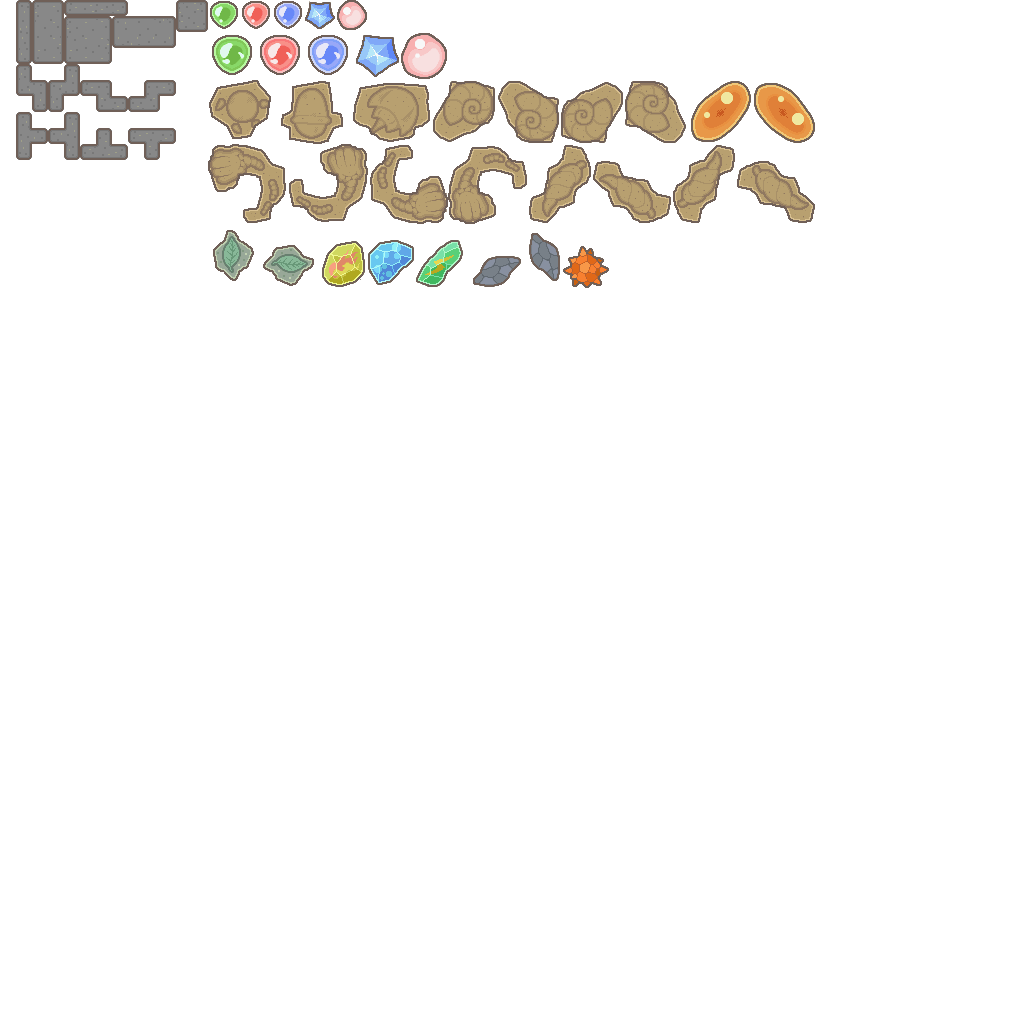
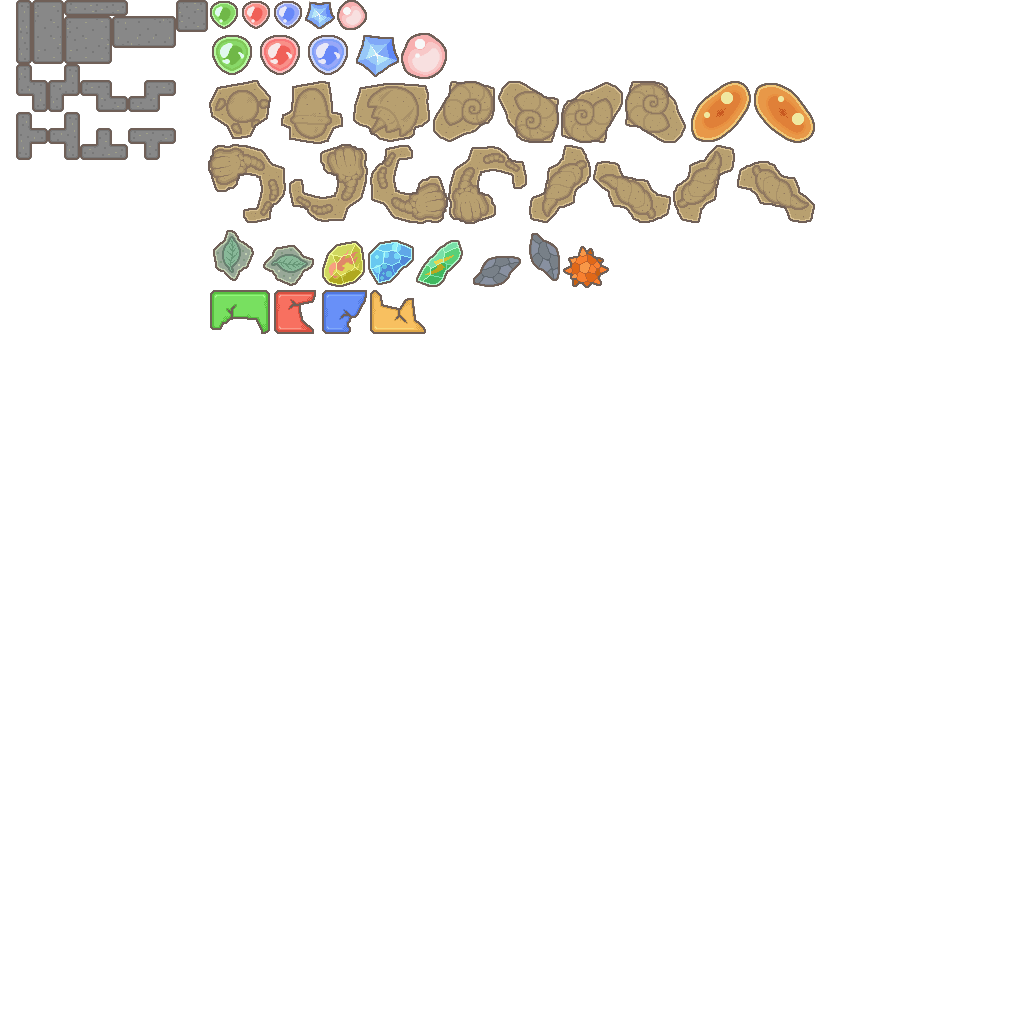
added shards, fixed a nasty bug where objects checked a potentially empty corner when testing placement

Changed region(s): [[0.1875, 0.2812, 0.4062, 0.3438]]

diff --git a/src/simulator/board.ts b/src/simulator/board.ts
@@ -1,7 +1,7 @@
 import { Sprite, SpriteSheet } from "../components/sprite"
 import { Vector2 } from "../math"
 import * as Noise from 'ts-perlin-simplex'
-import { bedrock_objects, ContentType, evolution_stones, GridObject, large_spheres, national_fossils, small_speheres } from "./objects"
+import { bedrock_objects, ContentType, evolution_stones, GridObject, large_spheres, national_fossils, shards, small_speheres } from "./objects"
 import { random_element } from "../utils/array_utils"
 
 const cell_scale = 3
@@ -97,14 +97,13 @@ export class MiningGrid {
             }
         }
 
-        evolution_stones.forEach((obj) => {
+        shards.forEach((obj) => {
             this.try_add_object_at_random_valid_position(obj)
         })
 
         for (let index = 0; index < 4; index++) {
             this.try_add_object_at_random_valid_position(random_element(Math.random() > 0.3 ? large_spheres : small_speheres))
         }
-
 
         for (let index = 0; index < 6; index++) {
             this.try_add_object_at_random_valid_position(random_element(bedrock_objects))
@@ -114,8 +113,8 @@ export class MiningGrid {
 
     get_object_positions(object: GridObject, position: Vector2) : Vector2[] {
         const output: Vector2[] = []
-        for (let yIndex = 0; yIndex < object.extents.y; yIndex++) {
-            for (let xIndex = 0; xIndex < object.extents.x; xIndex++) {
+        for (let xIndex = 0; xIndex < object.extents.x; xIndex++) {
+            for (let yIndex = 0; yIndex < object.extents.y; yIndex++) {
                 if (object.collision[yIndex]?.[xIndex]) {
                     output.push(position.add(new Vector2(xIndex, yIndex)))
                 }
@@ -144,14 +143,12 @@ export class MiningGrid {
 
     get_all_valid_object_positions(object: GridObject) : Vector2[] {
         const output: Vector2[] = []
-        for (let yIndex = 0; yIndex < this.cells.length; yIndex++) {
-            const cell_row = this.cells[yIndex];
-            for (let xIndex = 0; xIndex < cell_row.length; xIndex++) {
-                const cell = cell_row[xIndex];
-                if (cell.content === ContentType.NOTHING) {
-                    if (this.test_object_placement(object, new Vector2(xIndex, yIndex))) {
-                        output.push(new Vector2(xIndex, yIndex))
-                    }
+        for (let xIndex = 0; xIndex < this.cells.length; xIndex++) {
+            const cell_row = this.cells[xIndex];
+            for (let yIndex = 0; yIndex < cell_row.length; yIndex++) {
+                const cell = cell_row[yIndex];
+                if (this.test_object_placement(object, new Vector2(xIndex, yIndex))) {
+                    output.push(new Vector2(xIndex, yIndex))
                 }
             }
         }
@@ -165,19 +162,17 @@ export class MiningGrid {
 
                 const targetCell = this.cells[pos.x]?.[pos.y]
                 if (targetCell) {
-                    console.log("Adding tile at", pos)
                     targetCell.set_object(object, object.start_tile.add(local_object_position))
                 }
             }
         })
     }
 
-    try_add_object_at_random_valid_position(object: GridObject) : boolean {
+    public try_add_object_at_random_valid_position(object: GridObject) : boolean {
         const valid_positions = this.get_all_valid_object_positions(object)
         
         if (valid_positions.length === 0) return false
         const position = valid_positions[Math.floor(Math.random() * valid_positions.length)]
-        console.log(position)
 
         this.add_object_to_grid(object, position)
         return true
@@ -185,7 +180,8 @@ export class MiningGrid {
     
     clickedCell(xPos: number, yPos: number) {
         const targetCell = this.cells[xPos]?.[yPos]
-        const result =  targetCell.decrease(2)
+        console.log("Clicked", xPos, yPos, ContentType[targetCell.content])
+        const result = targetCell.decrease(2)
         if (result === HitResult.BOTTOM && targetCell.content === ContentType.BEDROCK) {
             return
         }

diff --git a/src/simulator/objects.ts b/src/simulator/objects.ts
@@ -347,6 +347,30 @@ export const evolution_stones = [
 ]
 
 export const shards = [
+    new GridObject(new Vector2(13, 18), new Vector2(16, 20), ContentType.ITEM,
+[ // Green Shard
+    [true, true, true, true],
+    [true, true, true, true],
+    [true, true, false, true],
+]),
+    new GridObject(new Vector2(17, 18), new Vector2(19, 20), ContentType.ITEM,
+[ // Red Shard
+    [true, true, true],
+    [true, true, false],
+    [true, true, true],
+]),
+    new GridObject(new Vector2(20, 18), new Vector2(22, 20), ContentType.ITEM,
+[ // Green Shard
+    [true, true, true],
+    [true, true, true],
+    [true, true, false],
+]),
+    new GridObject(new Vector2(23, 18), new Vector2(26, 20), ContentType.ITEM,
+[ // Green Shard
+    [true, false, true, false],
+    [true, true, true, false],
+    [true, true, true, true],
+]),
 
 ]
 
